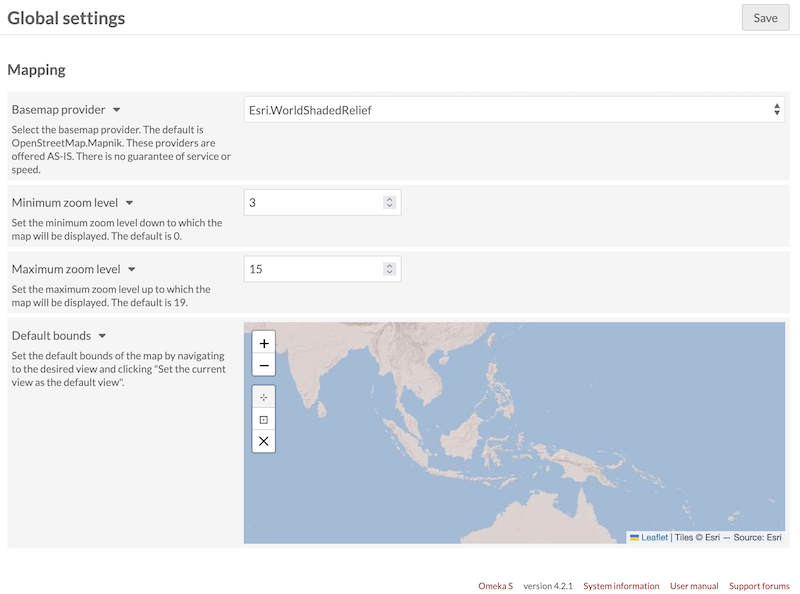
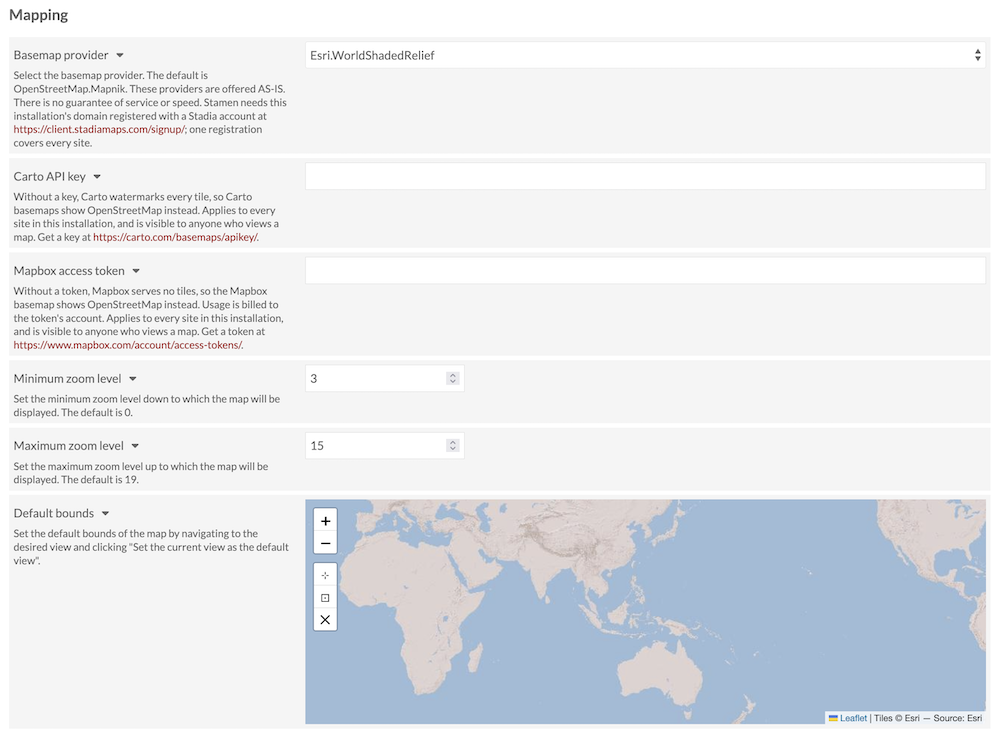
Documents changes from https://github.com/omeka-s-modules/Mapping/issues/148

diff --git a/docs/modules/mapping.md b/docs/modules/mapping.md
@@ -16,7 +16,7 @@ The Mapping module adds:
 !!! note
 	Item sets cannot be geolocated, but can display mapping information based on items assigned to them.
 
-Mapping has installation-wide default settings (a choice of base maps, etc.), site-specific default settings that override the global settings, and user-specific administrative settings that apply when editing. Individual maps on pages, and those associated with items, can be customized to override all of these defaults. 
+Mapping has installation-wide default settings (a choice of displayed "basemaps", etc.), site-specific default settings that override the global settings, and user-specific administrative settings that apply when editing. Individual maps on pages, and those associated with items, can be customized to override all of these defaults. 
 
 Mapping can work with the [Collecting](collecting.md#prompts) module, by allowing users filling out the contribution form to provide geolocation data for their submissions. Users click directly on a map to place a marker, and can optionally provide a text label for the marker. See the Collecting module page for more information.
 
@@ -113,7 +113,7 @@ Note that you can use the "Clear all" button in the menu which opens form the "D
 
 #### Map display
 
-You can set any map's zoom level and center. The default is to center on one feature and zoom fully in, or to zoom out far enough to contain all features in the map view.
+You can set any map's zoom level and center. The default is to center on one feature and zoom fully in, or (if there are multiple map markers) to zoom out far enough to contain all features in the map view.
 
 * **Set the current view as the default view**: The square with a target or crosshair symbol. The map will default to a zoomed out (global) view. Click to set the current view as the default view for this item.
 * **Go to the current default view**: The square with a black box around a dot. This option is only available after you have set a default view. Click to pan and zoom map to the selected view for this item.
@@ -155,7 +155,9 @@ Under Admin in the left-hand bar of the administrative dashboard, click "Setting
 
 In this section you can set: 
 
-- **Basemap provider**: Select a basemap from the dropdown to show when editing item maps on the administrative side.  
+- **Basemap provider**: Select a basemap from the dropdown to show when editing item maps on the **administrative side**. Some of the maps require a user key or token. To select Stamen-sourced basemaps, you need to register your domain (not any specific site URL) on their website; you do not need to enter in any kind of access key in your Omeka site for those to work.  
+- **Carto API key**: Go to the link provided in the interface and request an access key to use Carto-sourced basemaps. If you select a Carto basemap in any map setting, but do not have a valid API key in this field, those maps will show the "OpenStreetMap.Mapnik" default instead.
+- **Mapbox access token**: Go to the link provided in the interface and request an access key to use Mapbox-sourced basemaps. If you select a Mapbox basemap in any map setting, but do not have a valid access token in this field, those maps will show the "OpenStreetMap.Mapnik" default instead. 
 - **Minimum zoom level**: Set a minimum zoom level for all item maps when they first load.  
 - **Maximum zoom level**: Set a maximum zoom level for all item maps when they first load.
 - **Default bounds**: Set an area that must always be shown in item maps when they first load. The four corner coordinates set in this map will be included inside any map, with excess shown if the map dimensions require it. This setting will only apply to new item maps, that is, items without any mapping data. 
